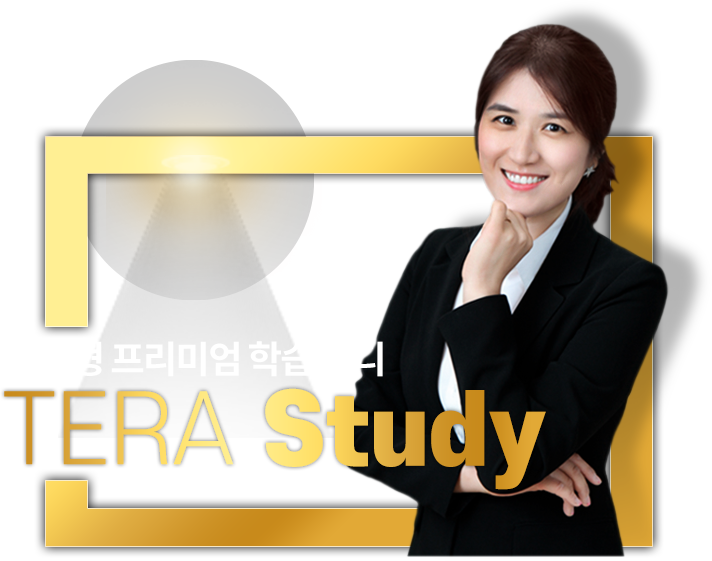
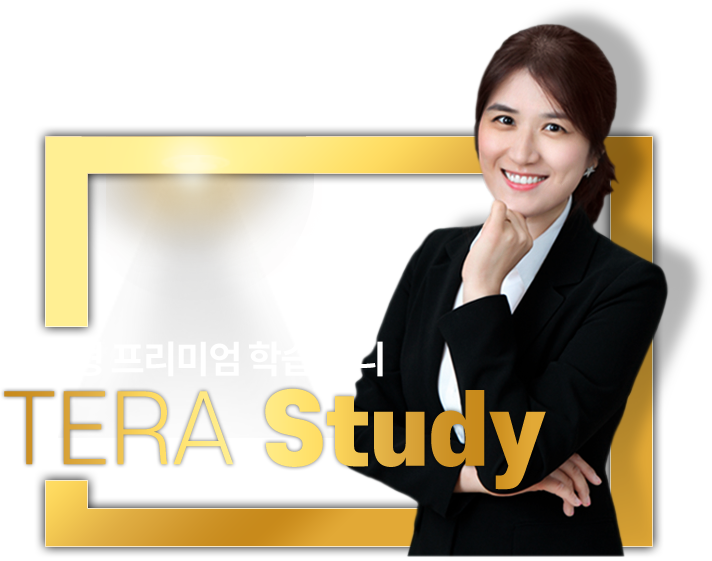
이미지 및 간격 수정

diff --git a/resources/css/ui.contents.css b/resources/css/ui.contents.css
@@ -89,15 +89,15 @@
 
 .leader-info{position:relative; width:100%; max-width:1600px; margin:0 auto 370px;}
 .leader-info .photo{position: absolute; right:45px; top:0; max-width: calc(100% - 990px); width: max-content;}
-.leader-info .group{position: relative;  padding:0 70px}
-.leader-info .group h2{font-size:90px;font-weight:100;color:#fff; line-height:1.1;overflow: hidden;}
+.leader-info .group{position: relative;  padding:30px 70px 0}
+.leader-info .group h2{font-size:80px;font-weight:100;color:#fff; line-height:1.1;overflow: hidden;}
 .leader-info .group h2 span{opacity:0.3;display:block; width:100%;}
-.leader-info .group em{display:block; margin-top:-5px; float:left; font-size:60px; color:#ffe36f; font-weight:100;border-bottom:4px solid #fff28c; font-family: 'Noto Sans TC', sans-serif; padding-bottom:10px}
-.leader-info .group p{font-size:36px; font-weight:500; color:#fff; line-height: 1.2; margin-top:20px;}
-.leader-info .tag {position:relative; margin-top:40px; max-width:680px; width:100%;}
-.leader-info .tag span{display:inline-block;height:60px;border-radius:30px;border:2px solid #848484;font-size:24px;font-weight:600;color:#848484;line-height:58px;padding:0 28px;margin:0 10px 20px 0;}
+.leader-info .group em{display:block; margin-top:-5px; float:left; font-size:54px; color:#ffe36f; font-weight:100;border-bottom:4px solid #fff28c; font-family: 'Noto Sans TC', sans-serif; padding-bottom:10px}
+.leader-info .group p{font-size:32px; font-weight:500; color:#fff; line-height: 1.2; margin-top:20px;}
+.leader-info .tag {position:relative; margin-top:30px; max-width:680px; width:100%;}
+.leader-info .tag span{display:inline-block;height:54px;border-radius:27px;border:2px solid #848484;font-size:20px;font-weight:600;color:#848484;line-height:52px;padding:0 24px;margin:0 10px 20px 0;}
 
-.leader-info .chara{position:relative; margin:30px auto; width:100%; max-width:1500px; overflow:hidden; display:flex; justify-content:center}
+.leader-info .chara{position:relative; margin:40px auto 30px; width:100%; max-width:1500px; overflow:hidden; display:flex; justify-content:center}
 .leader-info .chara .line{display:block; flex:1; max-width:115px; min-width:115px;  width:100%; height:6px; background: url(../../resources/images/common/line-dot.png) repeat-x 0 0;margin:75px 15px 0;}
 .leader-info .chara-item{flex:0; text-align: center; width:170px; min-width:170px; position: relative; z-index: 1;}
 .leader-info .chara-item .ico{display:inline-block; width:150px; height:150px; background:url(../../resources/images/common/ico-char.png) no-repeat 0 0;}
